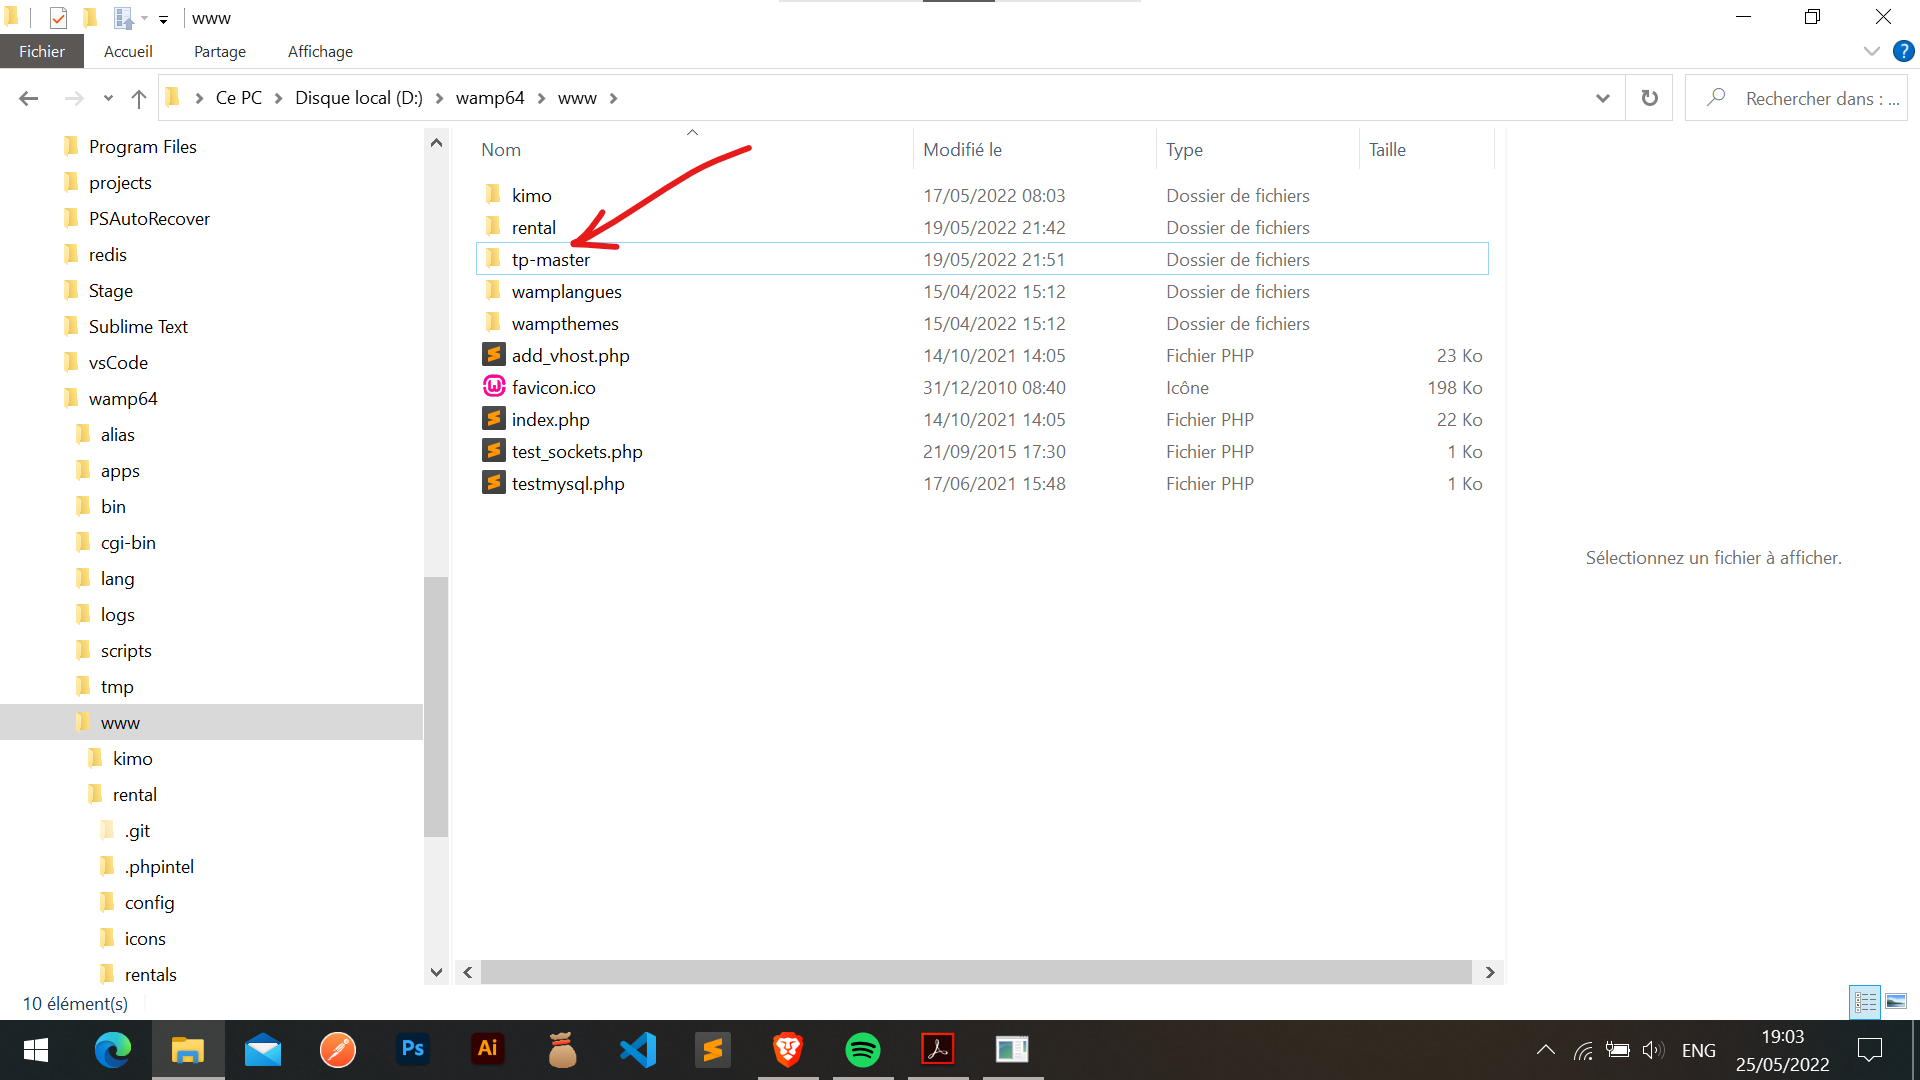
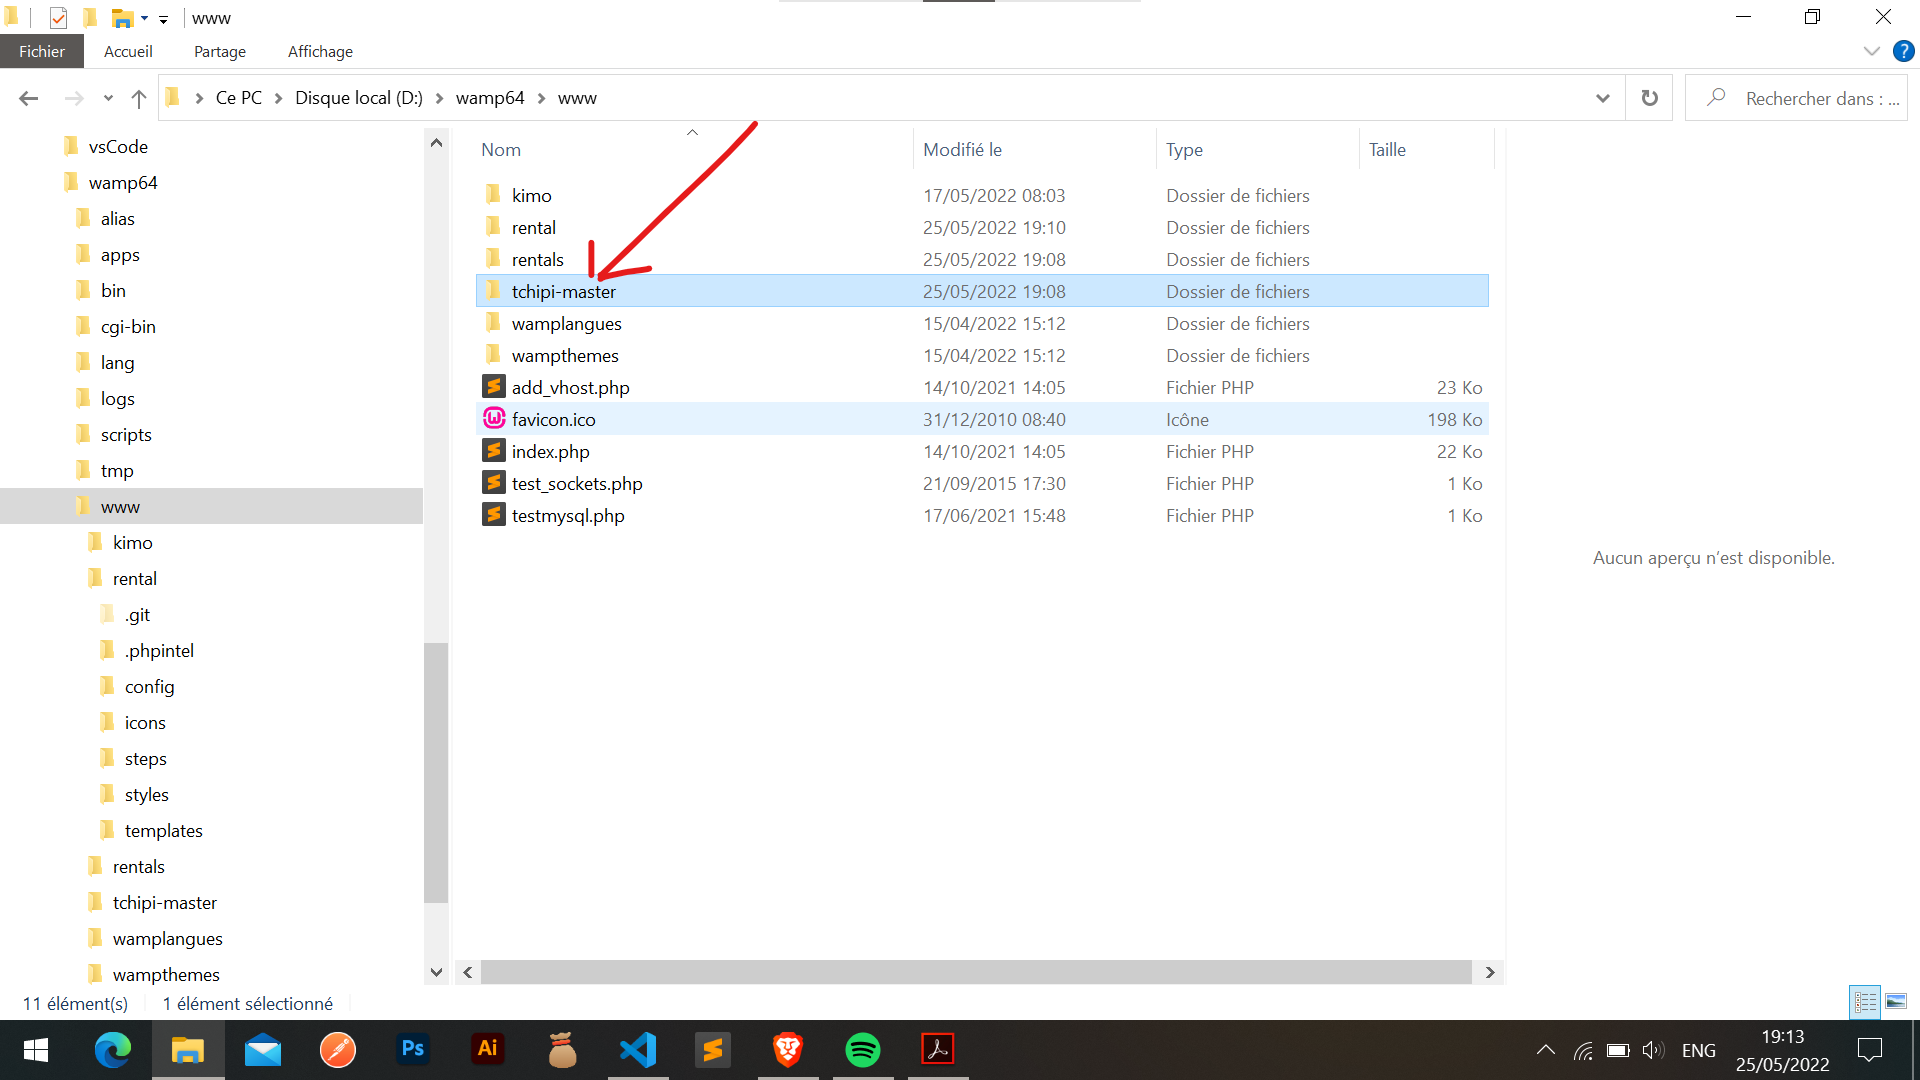
finished readme

diff --git a/README.md b/README.md
@@ -12,24 +12,32 @@ git clone https://github.com/strlrd-29/tp.git
 
 2. The still pretty easy way **(Kohol edition (sofiane))** is to download the repo as a zip file and extract it inside the www folder that you will find in the installation folder.
 
-![step1](/steps/1.png)
+![step1](/steps/11.png)
 
-3.
+3. Rename the folder from `tchipi-master` to `rentals`
+
+![download](/steps/download.png)
+
+                                        |
+
+                                        ↓
+
+![download2](/steps/download1.png)
 
 <br />
 <br />
 
-3. Before running you project you need to create you db first, to do that download this [sql file](/car.sql) and open it in vscode.
+4. Before running you project you need to create you db first, to do that download this [sql file](/car.sql) and open it in vscode.
 
-4. After that you need to copy the path of the file by right clicking on the file name and select "copy path" as show in the picture below.
+5. After that you need to copy the path of the file by right clicking on the file name and select "copy path" as show in the picture below.
 
 ![step0](/steps/0.png)
 
-5.Then open MySQL console by clicking on the wamp server icon then `MySQL` > `MySQL console`.
+6.Then open MySQL console by clicking on the wamp server icon then `MySQL` > `MySQL console`.
 
 ![step01](/steps/01.png)
 
-4. In order to execute the sql file simply write `source ` followed by the path that you copied earlier and then press enter. in my case the file path was `D:\wamp64\www\rentals\car.sql` so my command would look like this:
+7. In order to execute the sql file simply write `source ` followed by the path that you copied earlier and then press enter. in my case the file path was `D:\wamp64\www\rentals\car.sql` so my command would look like this:
 
 ```bash
 source D:\wamp64\www\rentals\car.sql
@@ -37,9 +45,25 @@ source D:\wamp64\www\rentals\car.sql
 
 ![step02](/steps/02.png)
 
-5. Now you can start the project
+8. Now you can start the project by clicking on wamp server icon then on `localhost`
 
-6. In question four where you have to retrieve cars based on location price using a stored procedure you first need to create the procedure in the database. You can do it by using the following command:
+![localhost](/steps/localhost.png)
+
+9. A browser window will open up and it will look like this:
+
+![window](/steps/window.png)
+
+10. you can now access the project by typing `localhost/rentals` in your browser.
+
+![rentals](/steps/rentals.png)
+
+11. That is all! now you can start coding! 🚀
+
+<br />
+<br />
+<br />
+
+## In question four where you have to retrieve cars based on location price using a stored procedure you first need to create the procedure in the database. You can do it by using the following command:
 
 ```sql
 
